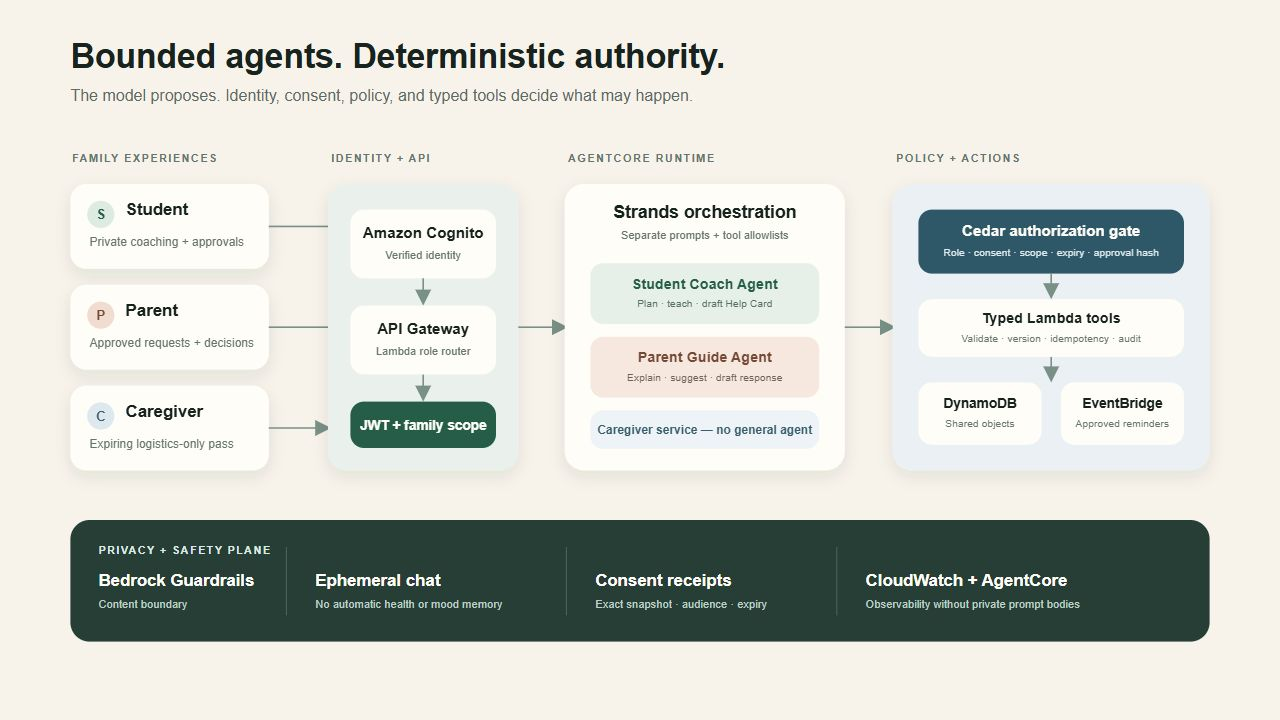
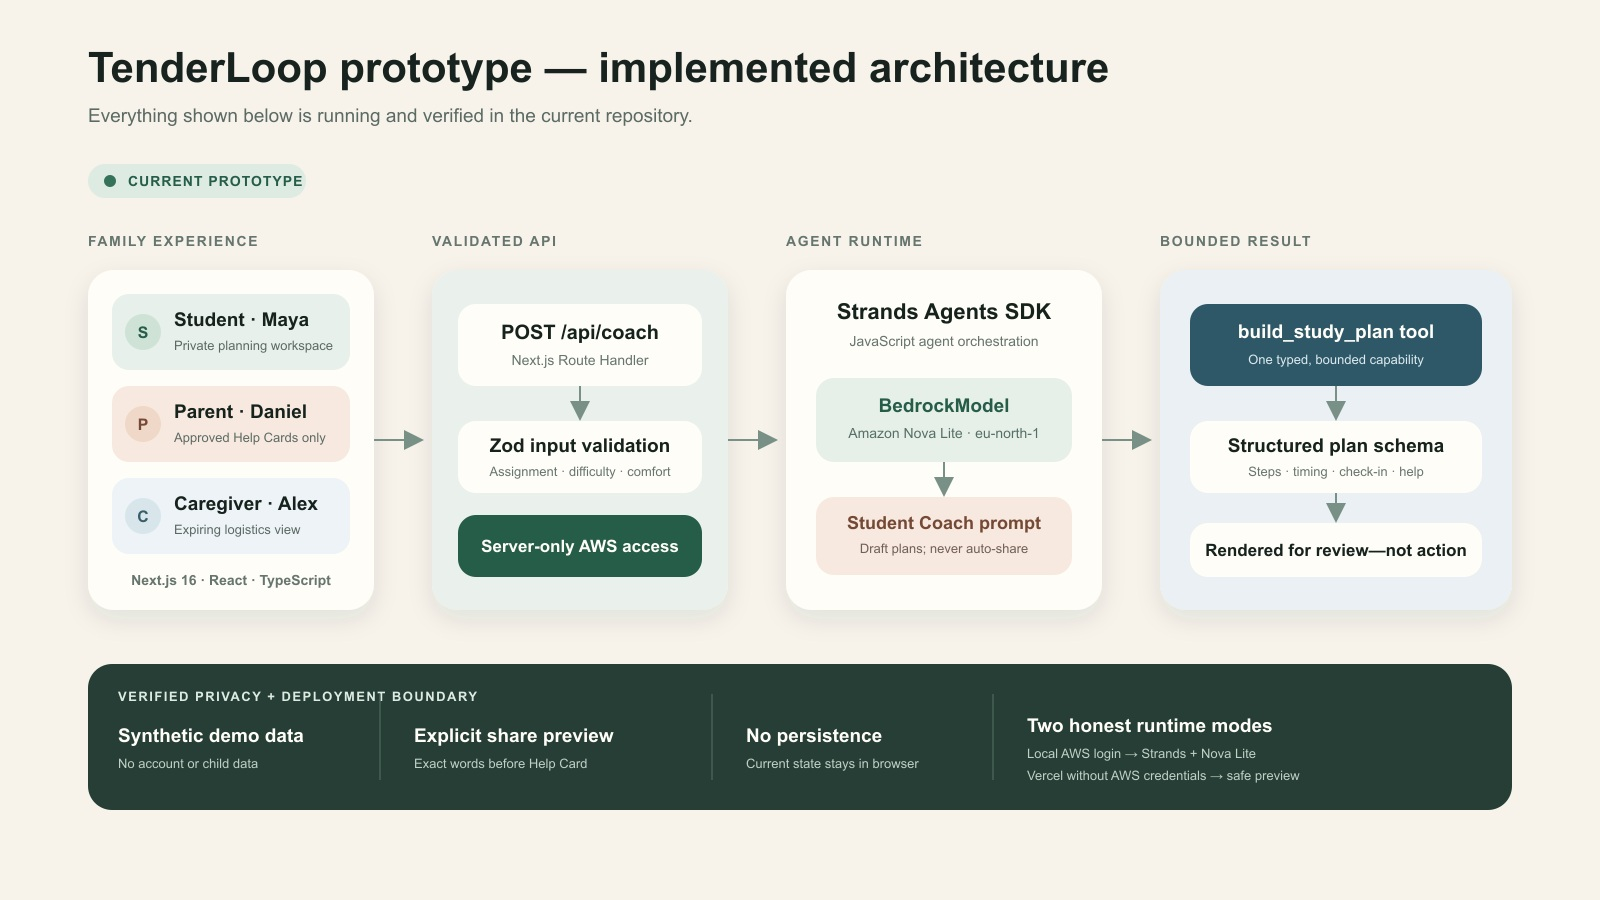
feat: refine mobile experience and verified architecture

diff --git a/src/components/tenderloop-demo.tsx b/src/components/tenderloop-demo.tsx
@@ -13,7 +13,6 @@ import {
   KeyRound,
   LockKeyhole,
   MessageCircleHeart,
-  MoreHorizontal,
   RefreshCcw,
   ShieldCheck,
   Sparkles,
@@ -64,6 +63,24 @@ const roleCopy: Record<Role, { eyebrow: string; title: string; description: stri
     eyebrow: "Caregiver pass · ends at 9:00 PM",
     title: "Welcome, Alex",
     description: "You can support today’s handoff and report an exception. Nothing else is visible.",
+  },
+};
+
+const roleScope: Record<Role, { label: string; detail: string; tone: "private" | "shared" | "limited" }> = {
+  student: {
+    label: "Private workspace",
+    detail: "The agent may draft. Maya approves anything shared.",
+    tone: "private",
+  },
+  parent: {
+    label: "Approved requests only",
+    detail: "Daniel sees decisions and Help Cards—not Maya’s private chat.",
+    tone: "shared",
+  },
+  caregiver: {
+    label: "Time-limited access",
+    detail: "Alex receives today’s logistics only, with a visible expiry.",
+    tone: "limited",
   },
 };
 
@@ -136,7 +153,7 @@ function StudentView({ onShare }: { onShare: () => void }) {
     <div className="grid gap-5 lg:grid-cols-[1.35fr_.85fr]">
       <div className="space-y-5">
         <Card className="paper-shadow overflow-hidden border-0 bg-[#fffdf8] py-0">
-          <div className="border-b border-[#e9e3d9] bg-[#f8f3e9] px-5 py-4 sm:px-6">
+          <div className="border-b border-[#e9e3d9] bg-[#f8f3e9] px-4 py-3.5 sm:px-6 sm:py-4">
             <div className="flex flex-wrap items-center justify-between gap-3">
               <div className="flex items-center gap-3">
                 <div className="grid size-11 place-items-center rounded-2xl bg-[#dbe8df] text-[#265d49]">
@@ -150,7 +167,7 @@ function StudentView({ onShare }: { onShare: () => void }) {
               <Badge variant="outline" className="rounded-full bg-white px-3 py-1 text-muted-foreground">Due Friday</Badge>
             </div>
           </div>
-          <CardContent className="space-y-5 px-5 py-5 sm:px-6">
+          <CardContent className="space-y-5 px-4 py-4 sm:px-6 sm:py-5">
             <div className="rounded-2xl border border-[#d9e3dc] bg-[#f2f7f3] p-4">
               <div className="flex gap-3">
                 <Sparkles className="mt-0.5 size-5 shrink-0 text-[#3a745d]" aria-hidden="true" />
@@ -204,13 +221,13 @@ function StudentView({ onShare }: { onShare: () => void }) {
               </div>
               <p className="mt-3 text-sm text-muted-foreground">{coachPlan.checkInQuestion}</p>
               {coachError ? <p className="mt-3 text-sm font-medium text-red-700" role="alert">{coachError}</p> : null}
-              <div className="mt-4 flex flex-wrap items-center justify-between gap-3">
+              <div className="mt-4 grid gap-3 sm:flex sm:flex-wrap sm:items-center sm:justify-between">
                 <AudienceChip>Private until you share</AudienceChip>
-                <div className="flex flex-wrap gap-2">
-                  <Button variant="outline" className="rounded-full bg-white" onClick={createPlan} disabled={coachLoading}>
+                <div className="grid grid-cols-2 gap-2 sm:flex sm:flex-wrap">
+                  <Button variant="outline" className="rounded-full bg-white px-3" onClick={createPlan} disabled={coachLoading}>
                     {coachLoading ? "Planning…" : "Create my plan"}
                   </Button>
-                  <Button className="rounded-full">Start the first step <ArrowRight className="size-4" aria-hidden="true" /></Button>
+                  <Button className="rounded-full px-3">Start first step <ArrowRight className="size-4" aria-hidden="true" /></Button>
                 </div>
               </div>
             </div>
@@ -310,7 +327,7 @@ function ParentView({ helpCardStatus, onAccept }: { helpCardStatus: HelpCardStat
     return (
       <div className="grid gap-5 lg:grid-cols-[1.15fr_.85fr]">
         <Card className="paper-shadow border-0">
-          <CardContent className="grid min-h-72 place-items-center p-8 text-center">
+          <CardContent className="grid min-h-52 place-items-center p-6 text-center sm:min-h-72 sm:p-8">
             <div className="max-w-md">
               <div className="mx-auto grid size-12 place-items-center rounded-2xl bg-[#edf4ef] text-[#265d49]"><LockKeyhole className="size-5" /></div>
               <h2 className="mt-4 text-xl font-semibold">No help request has been shared</h2>
@@ -499,40 +516,51 @@ export function TenderLoopDemo() {
     : helpCardStatus === "sent"
       ? "Maya shared one approved Help Card with Daniel. Her study conversation remains private."
       : "Drafted a plan from Maya’s assignment and family calendar. No action taken without approval.";
+  const scope = roleScope[role];
+
+  function changeRole(nextRole: Role) {
+    setRole(nextRole);
+    window.scrollTo({ top: 0, behavior: "smooth" });
+  }
 
   return (
     <main className="min-h-screen">
-      <header className="border-b border-black/5 bg-[#f9f6f0]/90 backdrop-blur">
-        <div className="mx-auto flex max-w-7xl items-center justify-between gap-4 px-4 py-4 sm:px-6 lg:px-8">
+      <header className="app-safe-top sticky top-0 z-40 border-b border-black/5 bg-[#f9f6f0]/92 backdrop-blur-xl">
+        <div className="mx-auto flex max-w-7xl items-center justify-between gap-3 px-4 py-3 sm:px-6 lg:px-8">
           <div className="flex items-center gap-3">
-            <div className="grid size-10 place-items-center rounded-2xl bg-[#265d49] text-white"><HandHeart className="size-5" aria-hidden="true" /></div>
+            <div className="grid size-9 place-items-center rounded-xl bg-[#265d49] text-white sm:size-10 sm:rounded-2xl"><HandHeart className="size-5" aria-hidden="true" /></div>
             <div><p className="text-base font-bold tracking-tight">TenderLoop</p><p className="text-xs text-muted-foreground">from nagging to navigating</p></div>
           </div>
-          <div className="hidden items-center gap-2 rounded-full border bg-white/70 px-3 py-1.5 text-xs font-medium text-muted-foreground sm:flex"><ShieldCheck className="size-4 text-[#347259]" aria-hidden="true" /> Student-first privacy</div>
-          <Button variant="ghost" size="icon" aria-label="More options"><MoreHorizontal className="size-5" /></Button>
+          <div className="inline-flex min-h-9 items-center gap-1.5 rounded-full border bg-white/70 px-2.5 text-[11px] font-semibold text-[#315f4d] sm:px-3 sm:text-xs"><ShieldCheck className="size-4 text-[#347259]" aria-hidden="true" /> <span className="sm:hidden">Private by design</span><span className="hidden sm:inline">Student-first privacy</span></div>
         </div>
       </header>
 
-      <div className="mx-auto max-w-7xl px-4 py-6 sm:px-6 lg:px-8 lg:py-9">
-        <div className="mb-7 flex flex-col justify-between gap-5 md:flex-row md:items-end">
+      <div className="app-safe-bottom mx-auto max-w-7xl px-4 py-4 sm:px-6 sm:py-6 lg:px-8 lg:py-9">
+        <div className="mb-4 flex flex-col justify-between gap-4 md:mb-6 md:flex-row md:items-end">
           <div>
-            <p className="text-xs font-bold uppercase tracking-[0.18em] text-[#527365]">{copy.eyebrow}</p>
-            <h1 className="mt-2 text-3xl font-semibold tracking-[-0.035em] sm:text-4xl">{copy.title}</h1>
-            <p className="mt-2 max-w-2xl text-base leading-7 text-muted-foreground">{copy.description}</p>
+            <p className="text-[11px] font-bold uppercase tracking-[0.18em] text-[#527365] sm:text-xs">{copy.eyebrow}</p>
+            <h1 className="mt-1.5 text-[1.75rem] font-semibold leading-tight tracking-[-0.035em] sm:mt-2 sm:text-4xl">{copy.title}</h1>
+            <p className="mt-1.5 max-w-2xl text-sm leading-6 text-muted-foreground sm:mt-2 sm:text-base sm:leading-7">{copy.description}</p>
           </div>
-          <div>
-            <p className="mb-2 text-xs font-semibold text-muted-foreground">Demo perspective</p>
-            <Tabs value={role} onValueChange={(value) => setRole(value as Role)}>
-              <TabsList className="h-auto rounded-full bg-[#e6e2d9] p-1">
-                {roles.map((item) => <TabsTrigger key={item.id} value={item.id} className="min-h-10 rounded-full px-4"><span className="hidden sm:inline">{item.label} · </span>{item.person}</TabsTrigger>)}
+          <div className="w-full md:w-auto">
+            <p className="mb-1.5 text-[11px] font-semibold uppercase tracking-[0.12em] text-muted-foreground">Choose a perspective</p>
+            <Tabs value={role} onValueChange={(value) => changeRole(value as Role)}>
+              <TabsList className="grid h-auto w-full grid-cols-3 rounded-2xl bg-[#e6e2d9] p-1 md:w-auto md:rounded-full">
+                {roles.map((item) => <TabsTrigger key={item.id} value={item.id} className="min-h-12 flex-col gap-0 rounded-xl px-2 leading-tight md:min-h-10 md:flex-row md:gap-1 md:rounded-full md:px-4"><span className="text-[9px] font-bold uppercase tracking-[0.1em] text-current/60 md:text-xs md:normal-case md:tracking-normal">{item.label}</span><span className="text-sm">{item.person}</span></TabsTrigger>)}
               </TabsList>
             </Tabs>
           </div>
         </div>
 
-        <div className="mb-5 flex items-center gap-3 rounded-xl border border-[#d5ded8] bg-[#f7faf8] px-4 py-3 text-sm">
-          <Sparkles className="size-4 shrink-0 text-[#347259]" aria-hidden="true" />
-          <p><span className="font-semibold">Agent activity:</span> {activityCopy}</p>
+        <div className="mb-5 grid gap-3 rounded-2xl border border-[#d5ded8] bg-[#f7faf8] px-4 py-3 sm:flex sm:items-center sm:justify-between">
+          <div className="flex min-w-0 gap-3">
+            <Sparkles className="mt-0.5 size-4 shrink-0 text-[#347259]" aria-hidden="true" />
+            <div><p className="text-[10px] font-bold uppercase tracking-[0.14em] text-[#527365]">Auditable agent state</p><p className="mt-0.5 text-sm leading-5"><span className="font-semibold">Current:</span> {activityCopy}</p></div>
+          </div>
+          <div className="flex items-center gap-2 border-t border-[#dce5df] pt-2 sm:max-w-xs sm:border-l sm:border-t-0 sm:pl-3 sm:pt-0">
+            <AudienceChip tone={scope.tone}>{scope.label}</AudienceChip>
+            <p className="hidden text-xs leading-5 text-muted-foreground lg:block">{scope.detail}</p>
+          </div>
         </div>
 
         {role === "student" ? <StudentView onShare={() => setHelpOpen(true)} /> : role === "parent" ? <ParentView helpCardStatus={helpCardStatus} onAccept={() => setHelpCardStatus("accepted")} /> : <CaregiverView />}

diff --git a/src/components/ui/dialog.tsx b/src/components/ui/dialog.tsx
@@ -61,7 +61,7 @@ function DialogContent({
       <DialogPrimitive.Content
         data-slot="dialog-content"
         className={cn(
-          "fixed top-1/2 left-1/2 z-50 grid w-full max-w-[calc(100%-2rem)] -translate-x-1/2 -translate-y-1/2 gap-4 rounded-xl bg-popover p-4 text-sm text-popover-foreground ring-1 ring-foreground/10 duration-100 outline-none sm:max-w-sm data-open:animate-in data-open:fade-in-0 data-open:zoom-in-95 data-closed:animate-out data-closed:fade-out-0 data-closed:zoom-out-95",
+          "fixed top-1/2 left-1/2 z-50 grid max-h-[calc(100dvh-2rem)] w-full max-w-[calc(100%-2rem)] -translate-x-1/2 -translate-y-1/2 gap-4 overflow-y-auto overscroll-contain rounded-xl bg-popover p-4 text-sm text-popover-foreground ring-1 ring-foreground/10 duration-100 outline-none sm:max-w-sm data-open:animate-in data-open:fade-in-0 data-open:zoom-in-95 data-closed:animate-out data-closed:fade-out-0 data-closed:zoom-out-95",
           className
         )}
         {...props}

diff --git a/src/app/layout.tsx b/src/app/layout.tsx
@@ -1,4 +1,4 @@
-import type { Metadata } from "next";
+import type { Metadata, Viewport } from "next";
 import { Geist, Geist_Mono } from "next/font/google";
 import { TooltipProvider } from "@/components/ui/tooltip";
 import "./globals.css";
@@ -17,6 +17,11 @@ export const metadata: Metadata = {
   title: "TenderLoop — From nagging to navigating",
   description:
     "A caring family coordination agent that helps students study and families show up without surveillance.",
+};
+
+export const viewport: Viewport = {
+  themeColor: "#f9f6f0",
+  colorScheme: "light",
 };
 
 export default function RootLayout({ children }: LayoutProps<"/">) {

diff --git a/src/app/globals.css b/src/app/globals.css
@@ -70,6 +70,10 @@
       linear-gradient(125deg, rgb(38 93 73 / 0.035), transparent 45%);
   }
 
+  html {
+    scroll-padding-top: 5rem;
+  }
+
   button,
   a {
     @apply focus-visible:outline-2 focus-visible:outline-offset-2 focus-visible:outline-ring;
@@ -79,6 +83,14 @@
 @layer utilities {
   .paper-shadow {
     box-shadow: 0 18px 60px rgb(51 66 58 / 0.09);
+  }
+
+  .app-safe-top {
+    padding-top: env(safe-area-inset-top);
+  }
+
+  .app-safe-bottom {
+    padding-bottom: max(1.5rem, env(safe-area-inset-bottom));
   }
 }
 

diff --git a/docs/ARCHITECTURE.md b/docs/ARCHITECTURE.md
@@ -1,87 +1,40 @@
 # TenderLoop architecture
 
-## System shape
+## Implemented and verified prototype
 
-TenderLoop uses two bounded language-model roles and one deterministic caregiver experience:
+The current repository implements a bounded Student Coach flow:
 
 ```mermaid
 flowchart LR
-  UI["Next.js role experiences"] --> AUTH["Cognito identity"]
-  UI --> API["API Gateway + Lambda"]
-  API --> ROUTER["Deterministic role router"]
-  ROUTER --> STUDENT["Student Coach · Strands"]
-  ROUTER --> PARENT["Parent Guide · Strands"]
-  ROUTER --> CARE["Caregiver Pass service · no general chat agent"]
-  STUDENT --> GATE["Cedar policy + approval gate"]
-  PARENT --> GATE
-  CARE --> GATE
-  GATE --> TOOLS["Typed Lambda tools"]
-  TOOLS --> DB["DynamoDB family-scoped records"]
-  DB --> EVENTS["Outbox + EventBridge Scheduler"]
-  EVENTS --> NOTIFY["Consent re-check + notification"]
-  ROUTER --> OBS["AgentCore observability"]
-  TOOLS --> OBS
+  UI["Next.js role-based demo"] --> API["POST /api/coach"]
+  API --> VALIDATE["Zod input validation"]
+  VALIDATE --> AGENT["Strands Agents SDK"]
+  AGENT --> MODEL["Amazon Bedrock · Nova Lite"]
+  AGENT --> TOOL["build_study_plan tool"]
+  TOOL --> OUTPUT["Structured, schema-validated plan"]
+  OUTPUT --> REVIEW["Student reviews before any share"]
 ```
 
-AgentCore Runtime hosts a single Python service with separate Student Coach and Parent Guide prompts and tool allowlists. The agents never exchange free-form conversation. A child-approved, stored Help Card is the only cross-role study handoff.
+The interactive experience includes three deliberately different scopes:
 
-## Authorization contract
+- Maya receives a private planning workspace. The agent can draft a study plan, but it cannot publish a Help Card.
+- Daniel sees only the exact Help Card Maya approves and shared family schedule information.
+- Alex receives a synthetic, expiring logistics view with no access to study history or private conversation.
 
-The server resolves identity and role from a verified JWT. It never trusts a role, family identifier, or student identifier supplied in a prompt. Every mutation verifies authenticated subject, active family membership, server-resolved role, family ownership of the resource, operation scope, unexpired consent or Caregiver Pass, approval hash and object version, and an idempotency key.
+The route handler validates `assignment`, `difficulty`, and `comfort`, invokes a Strands JavaScript agent configured with an explicit Bedrock model, and accepts output only through the typed `build_study_plan` tool and final structured-output schema.
 
-The model can draft a plan, Help Card, replan, reminder, or parent response. It cannot approve its own proposal.
+Local development uses the authenticated AWS CLI provider chain with `amazon.nova-lite-v1:0` in `eu-north-1`. The Vercel deployment intentionally has no AWS credentials and therefore uses the deterministic safe-preview response. The UI labels the active mode as either **Strands agent** or **Safe preview**.
 
-## Principal tool contracts
+## Current privacy boundary
 
-Student tools: `get_student_day`, `draft_study_plan`, `approve_study_plan`, `mark_session_status`, `replan_missed_session`, `draft_help_card`, `publish_help_card`, `propose_reminder`, `approve_reminder`, and `save_preference_card`.
+- Synthetic family, assignment, schedule, and caregiver data only.
+- No login, durable database, analytics, or private conversation persistence.
+- Help Card text is previewed verbatim before the simulated share action.
+- Role changes alter only client-side demo state.
+- The agent has one narrow tool and no capability to message, schedule, purchase, or mutate an external system.
 
-Parent tools: `get_shared_family_view` and `respond_to_help_card`.
+## Production hardening roadmap — not implemented in this prototype
 
-Caregiver tools: `get_caregiver_day`, `acknowledge_handoff`, `report_exception`, and `request_parent_decision`.
+A production TenderLoop would add verified identity and family membership, deterministic authorization, durable consent receipts, audited idempotent tools, encrypted family-scoped storage, revocable caregiver passes, and reviewed safety escalation. Candidate AWS services include Cognito, API Gateway, Lambda, Cedar/Verified Permissions, DynamoDB, EventBridge, Bedrock Guardrails, CloudWatch, and AgentCore.
 
-All mutating requests include `request_id`, `idempotency_key`, and `expected_version`. Consequential tools write the state change, approval receipt, audit metadata, and outbox event atomically.
-
-## Data and memory
-
-A DynamoDB single table uses family-scoped partition keys and records for Family, Membership, Assignment, Plan, StudySession, HelpCard, PreferenceCard, Approval, Reminder, CaregiverPass, AuditEvent, and IdempotencyResult. Reverse membership and hashed invite lookup use secondary indexes.
-
-Raw student chats are ephemeral. AgentCore Memory is short-term only for minor conversations. A durable PreferenceCard is created only after an explicit, child-visible save action and remains editable and deletable.
-
-Health diagnoses and symptom narratives are not agent memory. The preferred data object is a narrow `AccommodationPreference` containing a functional adjustment, audience, purpose, provenance, consent receipt, expiry, and retention rule. Appointment blocks may be stored as unavailable time with a neutral label. Any optional health detail is isolated from ordinary study records, encrypted, excluded from model memory and analytics, and never copied into a caregiver view unless the student and authorized adult explicitly approve a necessary safety instruction.
-
-## Caregiver Pass
-
-The pass begins as a 256-bit opaque single-use invite. Only its hash is stored. After authentication it binds to one subject, family, student, time window, and narrow scope. The default duration is 24 hours and the maximum is seven days. It is visible to the student and parent, revocable, non-transferable, and cannot extend itself.
-
-## Safety layers
-
-- deterministic input and action policy;
-- Amazon Bedrock Guardrails;
-- PII masking or blocking on model input and output;
-- academic-integrity checker;
-- typed Pydantic schemas;
-- Cedar authorization;
-- Lambda-side reauthorization;
-- output validation and audit metadata;
-- specialist-reviewed crisis and trusted-adult handoff policy.
-
-Health-related requests pass through a deterministic boundary classifier before agent generation. The permitted path is plan accommodation or human handoff. Diagnosis, symptom interpretation, medication advice, and treatment recommendations are denied. Urgent language invokes a disclosed, jurisdiction-specific safety flow that offers immediate human help while revealing only the minimum necessary information under the reviewed escalation policy.
-
-Guardrails do not replace authorization and cannot be assumed to inspect every tool argument.
-
-## Repository evolution
-
-The hackathon starts with a Next.js demonstration at the repository root. The production-oriented shape will grow into:
-
-```text
-src/                    Next.js experience and local adapters
-services/agent/         Python Strands + AgentCore runtime
-services/tools/         typed Lambda tool implementations
-packages/contracts/     shared schemas and generated clients
-infra/                  AWS CDK stacks and Cedar policies
-tests/e2e/              family journey tests
-tests/redteam/          privacy, role, injection, and safety tests
-agentcore/               runtime configuration
-```
-
-Local mode uses synthetic assignments and the Maya/Daniel/Alex family profile. No real child, school, health, or location data is required for the demonstration.
+These services are architectural direction only. They are not claimed as part of the submitted implementation or **Built With** list.

diff --git a/media/DEVPOST_SUBMISSION.md b/media/DEVPOST_SUBMISSION.md
@@ -126,7 +126,7 @@ Do not add AgentCore, Cognito, Lambda, API Gateway, DynamoDB, EventBridge, or Ce
 4. `Daniel receives one concrete Help Card, without Maya’s transcript, mood score, or private preferences.`
 5. `Alex gets logistics-only access for today’s handoff, with automatic expiry at 9 PM.`
 6. `Private comfort settings adapt pacing and screen load without diagnosis or wellbeing surveillance.`
-7. `Strands and Bedrock draft plans; deterministic policy and explicit approval govern shared actions.`
+7. `Strands and Nova Lite call one bounded planning tool; validation and explicit approval keep output review-only.`
 
 ## Additional Info recommendations
 

diff --git a/media/MEDIA_PLAN.md b/media/MEDIA_PLAN.md
@@ -17,7 +17,7 @@ The mark uses two continuous arcs as a bridge between student and family. They s
 | `03-parent-request.png` | Parent receives bounded request | Production |
 | `04-caregiver-pass.png` | Temporary caregiver authority | Production |
 | `05-wellbeing-accommodation.png` | Private functional accommodation | Production |
-| `06-architecture.jpg` | Technical implementation | Production |
+| `06-architecture.jpg` | Verified prototype architecture | Production |
 | Demo video | Five-minute product journey | Pending recording |
 
 ## Required video sequence
